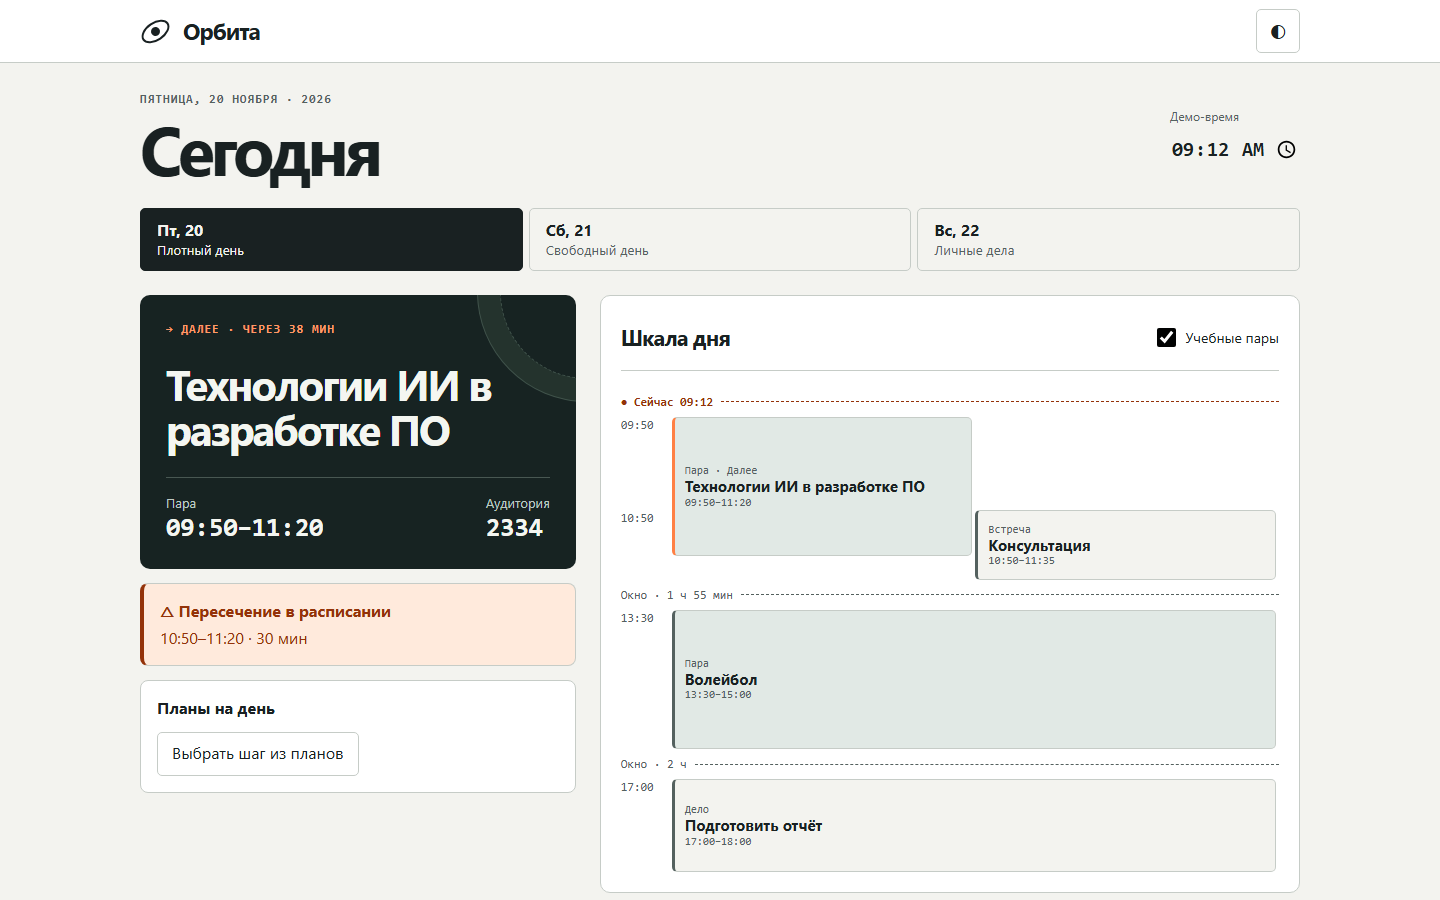
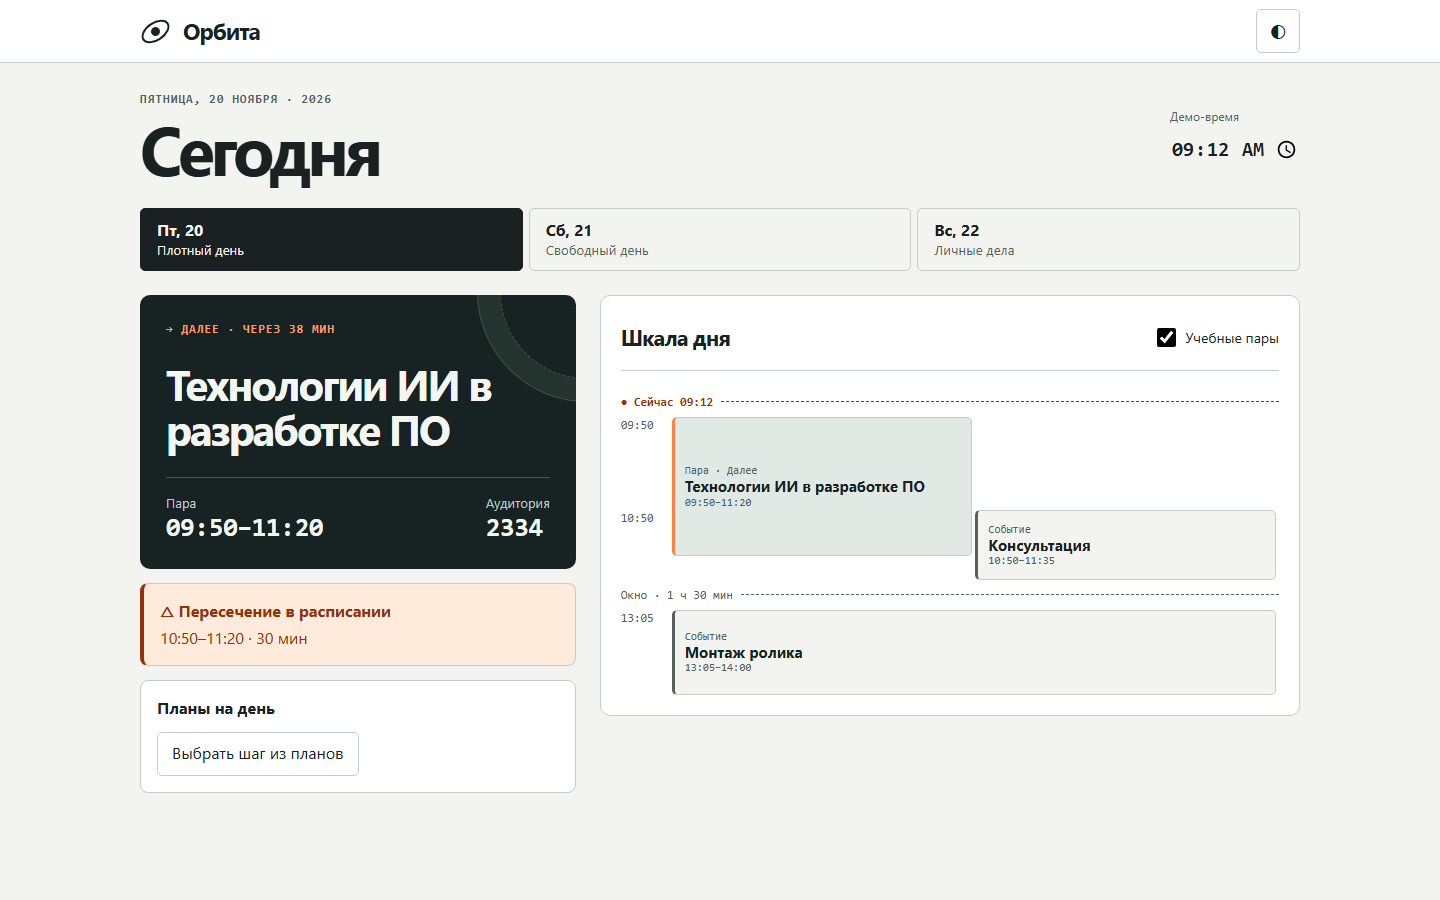
Finalize Orbit defense evidence and timetable types

diff --git a/design/today.html b/design/today.html
@@ -31,9 +31,8 @@ const days = [
 ];
 const events = [
   {day:0,start:590,end:680,title:'Технологии ИИ в разработке ПО',type:'Пара',place:'2334'},
-  {day:0,start:650,end:695,title:'Консультация',type:'Встреча',place:'Онлайн'},
-  {day:0,start:810,end:900,title:'Волейбол',type:'Пара',place:'4405'},
-  {day:0,start:1020,end:1080,title:'Подготовить отчёт',type:'Дело',place:'Дома'},
+  {day:0,start:650,end:695,title:'Консультация',type:'Событие'},
+  {day:0,start:785,end:840,title:'Монтаж ролика',type:'Событие'},
   {day:2,start:660,end:720,title:'Забрать книги',type:'Дело',place:'Библиотека'},
   {day:2,start:840,end:930,title:'Репетиция',type:'Встреча',place:'Студия'}
 ];
@@ -106,7 +105,7 @@ function timeline(items,next,now,isToday){
       const block=document.createElement('button');block.className='block'+(e.type==='Пара'?' lesson':'')+(e===next?' next':'');
       Object.assign(block.style,{top:(e.start-group.start)*scale+'px',height:(e.end-e.start)*scale+'px',left:(100*lanes[i]/ends.length)+'%',width:'calc('+100/ends.length+'% - 3px)'});
       block.innerHTML='<small>'+e.type+(e===next?' · Далее':'')+'</small><b>'+e.title+'</b><small>'+span(e)+'</small>';
-      block.onclick=()=>modal(e.title,'<p>'+e.type+' · '+span(e)+'</p><p>'+room(e)+' · '+e.place+'</p>');
+      block.onclick=()=>modal(e.title,'<p>'+e.type+' · '+span(e)+'</p>'+(e.place?'<p>'+room(e)+' · '+e.place+'</p>':''));
       tracks.append(block);
     });
     if(isToday && now>=group.start && now<group.end){
@@ -129,7 +128,7 @@ function render(){
   let label='Расписание',title='Свободный день',info='';
   if(focus){
     label=current?'● Сейчас идёт':isToday?'→ Далее · через '+(next.start-now)+' мин':'→ Первое дело';
-    title=focus.title;info='<div class="info"><div><small>'+focus.type+'</small><b>'+span(focus)+'</b></div><div><small>'+room(focus)+'</small><b>'+focus.place+'</b></div></div>';
+    title=focus.title;info='<div class="info"><div><small>'+focus.type+'</small><b>'+span(focus)+'</b></div>'+(focus.place?'<div><small>'+room(focus)+'</small><b>'+focus.place+'</b></div>':'')+'</div>';
   }else if(assigned===selected && !done){title=stepName;label='Шаг плана · без времени';}
   else if(items.length || assigned===selected){title=isToday?'Всё на сегодня закончилось':'Все дела завершены';}
   byId('hero').innerHTML='<div class="eyebrow">'+label+'</div><h2>'+title+'</h2>'+info;

diff --git a/server/import_schedule.py b/server/import_schedule.py
@@ -11,22 +11,22 @@ HISTORY = "История России и мира в XX веке"
 SPORT = "Большой зал (4405)"
 PROBABILITY = "Теория вероятности"
 
-# Only the dates shown in the source. The grid has 90-minute teaching slots.
+# The source uses blue for lectures, yellow for practice, and purple for labs.
 LESSONS = {
-    16: [("11:30", "Волейбол", SPORT), ("13:30", "Базы данных", "2324")],
-    17: [("08:10", ENGLISH, "3210"), ("09:50", ENGLISH, "3210"),
-         ("13:30", PROBABILITY, "Orange Classroom (1229)"), ("17:10", PROBABILITY, "2127")],
-    18: [("08:10", SPEAKING, "2304"), ("09:50", SPEAKING, "2304"), ("11:30", MATH, "2127")],
-    19: [("09:50", AI, "2342"), ("11:30", "Базы данных", "2342")],
-    20: [("09:50", AI, "2334"), ("13:30", "Волейбол", SPORT)],
-    21: [("09:50", OOP, "2412"), ("11:30", OOP, "2412"), ("13:30", OOP, "2403")],
-    23: [("09:50", "Волейбол", SPORT), ("13:30", "Базы данных", "2324")],
-    24: [("08:10", ENGLISH, "3210"), ("09:50", ENGLISH, "3210"),
-         ("13:30", PROBABILITY, "Orange Classroom (1229)"), ("17:10", PROBABILITY, "2127")],
-    25: [("09:50", MATH, "2304"), ("11:30", MATH, "2127")],
-    26: [("11:30", "Базы данных", "2342"), ("13:30", HISTORY, "2407 (архив)"), ("15:30", HISTORY, "2337")],
-    27: [("13:30", "Волейбол", SPORT)],
-    28: [("13:30", OOP, "2403")],
+    16: [("11:30", "Волейбол", SPORT, None), ("13:30", "Базы данных", "2324", "lab")],
+    17: [("08:10", ENGLISH, "3210", "practice"), ("09:50", ENGLISH, "3210", "practice"),
+         ("13:30", PROBABILITY, "Orange Classroom (1229)", "lecture"), ("17:10", PROBABILITY, "2127", "practice")],
+    18: [("08:10", SPEAKING, "2304", "practice"), ("09:50", SPEAKING, "2304", "practice"), ("11:30", MATH, "2127", "practice")],
+    19: [("09:50", AI, "2342", "lab"), ("11:30", "Базы данных", "2342", "lecture")],
+    20: [("09:50", AI, "2334", "lab"), ("13:30", "Волейбол", SPORT, None)],
+    21: [("09:50", OOP, "2412", "lab"), ("11:30", OOP, "2412", "lab"), ("13:30", OOP, "2403", "lecture")],
+    23: [("09:50", "Волейбол", SPORT, None), ("13:30", "Базы данных", "2324", "lab")],
+    24: [("08:10", ENGLISH, "3210", "practice"), ("09:50", ENGLISH, "3210", "practice"),
+         ("13:30", PROBABILITY, "Orange Classroom (1229)", "lecture"), ("17:10", PROBABILITY, "2127", "practice")],
+    25: [("09:50", MATH, "2304", "lecture"), ("11:30", MATH, "2127", "practice")],
+    26: [("11:30", "Базы данных", "2342", "lecture"), ("13:30", HISTORY, "2407 (архив)", "lecture"), ("15:30", HISTORY, "2337", "practice")],
+    27: [("13:30", "Волейбол", SPORT, None)],
+    28: [("13:30", OOP, "2403", "lecture")],
 }
 
 
@@ -36,15 +36,22 @@ def import_schedule():
         rows = []
         for number, entries in LESSONS.items():
             day = date(2026, 11, number)
-            for clock, subject, room in entries:
+            for clock, subject, room, lesson_type in entries:
                 finish = (datetime.strptime(clock, "%H:%M") + timedelta(minutes=90)).strftime("%H:%M")
                 identifier = f"itmo-{day:%Y%m%d}-{clock.replace(':', '')}"
-                rows.append((identifier, day.isoweekday(), subject, room, clock, finish, day.isoformat(), day.isoformat()))
+                rows.append((identifier, day.isoweekday(), subject, room, clock, finish,
+                             day.isoformat(), day.isoformat(), lesson_type))
         inserted = db.executemany(
             """INSERT OR IGNORE INTO lessons
-               (id, weekday, subject, room, startTime, endTime, termStart, termEnd)
-               VALUES (?, ?, ?, ?, ?, ?, ?, ?)""", rows,
+               (id, weekday, subject, room, startTime, endTime, termStart, termEnd, lessonType)
+               VALUES (?, ?, ?, ?, ?, ?, ?, ?, ?)""", rows,
         ).rowcount
+        typed = db.executemany(
+            """UPDATE lessons SET lessonType = ?
+               WHERE id = ? AND lessonType IS NULL""",
+            [(row[-1], row[0]) for row in rows if row[-1] is not None],
+        ).rowcount
+    print(f"Filled in {typed} lesson types on existing records.")
     print(f"Imported {inserted} of {len(rows)} class sessions.")
 
 

diff --git a/README.md b/README.md
@@ -58,10 +58,13 @@ npm run import-schedule
 
 Снимки приложения сделаны на временной SQLite с тестовыми записями. В утреннем сценарии браузер использует фиксированное время 09:12, чтобы показать обратный отсчёт до пары. В приложении без фиксации часов статус карточки зависит от текущей даты и времени.
 
+[Кликабельный прототип «Сегодня»](design/today.html). В первых двух строках сравниваются один день, время и три записи. После переноса в приложение добавились недельная лента и фильтры, а предупреждение о пересечении переехало в шкалу.
+
 | Сценарий | Снимки |
 | --- | --- |
-| [Кликабельный прототип «Сегодня»](design/today.html) | [390×844](evidence/today-390x844.png) · [1440×900](evidence/today-1440x900.png) |
-| Ближайшая пара и пересечение | Светлая тема [390×844](evidence/app-today-390x844.png) · [1440×900](evidence/app-today-1440x900.png). Тёмная тема [390×844](evidence/app-next-dark-mobile.png) · [1440×900](evidence/app-next-dark-desktop.png) |
+| 20 ноября, 09:12, пары включены, 390×844 | [Макет](evidence/today-390x844.png) · [Приложение](evidence/app-today-390x844.png) |
+| 20 ноября, 09:12, пары включены, 1440×900 | [Макет](evidence/today-1440x900.png) · [Приложение](evidence/app-today-1440x900.png) |
+| Ближайшая пара в тёмной теме | [390×844](evidence/app-next-dark-mobile.png) · [1440×900](evidence/app-next-dark-desktop.png) |
 | Текущая пара и плотные пересечения | [До конца пары](evidence/flight-in-progress.png) · [Четыре события, светлая тема](evidence/day-overlaps-light.png) · [Тёмная тема](evidence/day-overlaps-dark.png) |
 | Неделя и разовая пара | [Телефон](evidence/flight-week-mobile.png) · [Компьютер](evidence/flight-week-desktop.png) · [Форма разовой пары](evidence/flight-one-off-lesson.png) |
 | Свободный день и планы | [Свободный день](evidence/flight-free-day.png) · [Выбор шага](evidence/flight-step-picker.png) · [Выполненный шаг в плане](evidence/flight-plan-completed.png) · [Компактный список](evidence/day-tasks-dark-1440.png) |
@@ -72,7 +75,7 @@ npm run test-client
 Remove-Item Env:ORBIT_CAPTURE_DAY
 ```
 
-## Макет и интерфейс
+## Первый макет и интерфейс до редизайна
 
 [Кликабельный HTML-макет](design/prototype.html) открывается из файла. Панель «Состояния макета» переключает пустой день, выбор шага, заполненную форму, отправку, успех, ошибку и экран плана. Назначение и выполнение «Собрать черновик» можно пройти и обычными элементами интерфейса.
 
@@ -121,13 +124,13 @@ Playwright запускает отдельные FastAPI и Vite на тесто
 | 1. AI-макет | HTML-экспорт, переключаемые состояния, исходный запрос и фактическая правка выше. [Прогон макета](evidence/edits-prototype.log). |
 | 2–3. Компоненты и тема | Ссылки на компоненты выше, общая тема Mantine и снимки календаря и планов. |
 | 4. Сценарий на реальном API | Назначение → reload → выполнение → `2 из 3`. [Выбор шага](evidence/session-02-step-picker.png), [выполненный шаг](evidence/session-02-step-completed.png), [тест](frontend/tests/plans-real.spec.ts). |
-| 5. Соответствие макету | Пары снимков на одинаковых данных указаны выше. |
+| 5. Соответствие макету | [Сравнение макета и приложения на одинаковых данных](#снимки-редизайна-полётное-задание). |
 | 6. Доступность | Tab, стрелки, Enter, Escape, возврат фокуса и доступность повестки. В сценариях проверены страницы при 360 px. |
 | 7–8. Повторная отправка и действия | Отдельные тесты двойного клика и Enter, проверка диалогов, кнопок и полей. [Тесты календаря](frontend/tests/calendar-ui.spec.ts). |
 | 9. Валидация | Пустое название, обратный диапазон, ссылка с недопустимой схемой. Проверяется поле ошибки, сохранение ввода и отсутствие POST. |
 | 10. Состояния и тестовые ответы | [Задержка](evidence/calendar-test-delay.png), [пустая выдача](evidence/calendar-test-empty.png), [ответ 500](evidence/calendar-test-error-500.png), [успех](evidence/calendar-test-success.png). Отдельно проверены пустой выбор шага и повтор после ошибки назначения. |
 | 11. Клиентский сценарий | Браузерный тест проверяет путь календарь → выбор → сохранение → выполнение → план с изменившимся прогрессом. |
 
-[Лог 23 проверок](evidence/edits-tests.log) · [Сборка](evidence/edits-build.log) · [Установка](evidence/session-02-setup.log) · [Запуск с фиксированными и импортированными данными](evidence/edits-dev.log) · [Рубрика практики](https://github.com/ai-course-avito/ITMOv2/blob/main/practices/practice_08/README.md).
+[Лог 27 клиентских тестов](evidence/defense-tests.log) · [Production-сборка](evidence/defense-build.log) · [Установка](evidence/session-02-setup.log) · [Запуск с фиксированными и импортированными данными](evidence/edits-dev.log) · [Рубрика практики](https://github.com/ai-course-avito/ITMOv2/blob/main/practices/practice_08/README.md).
 
 Счётчик пар занимает свободную строку календаря, а при совпадении с «ещё N» отображается отдельно. Дополнительно проверены повторы, области удаления, недельные пересечения, тёмная тема, перетаскивание шагов и длинные названия. [Тесты учебного слоя](frontend/tests/schedule.spec.ts) · [Тесты доработки по правкам](frontend/tests/edits.spec.ts).
